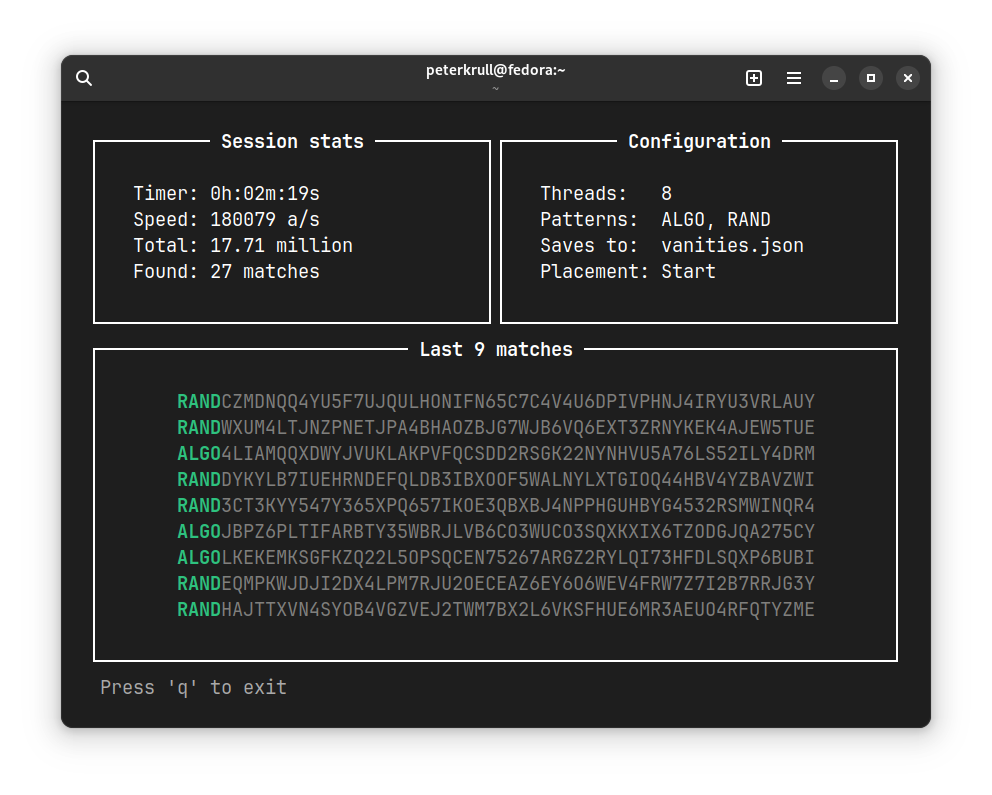
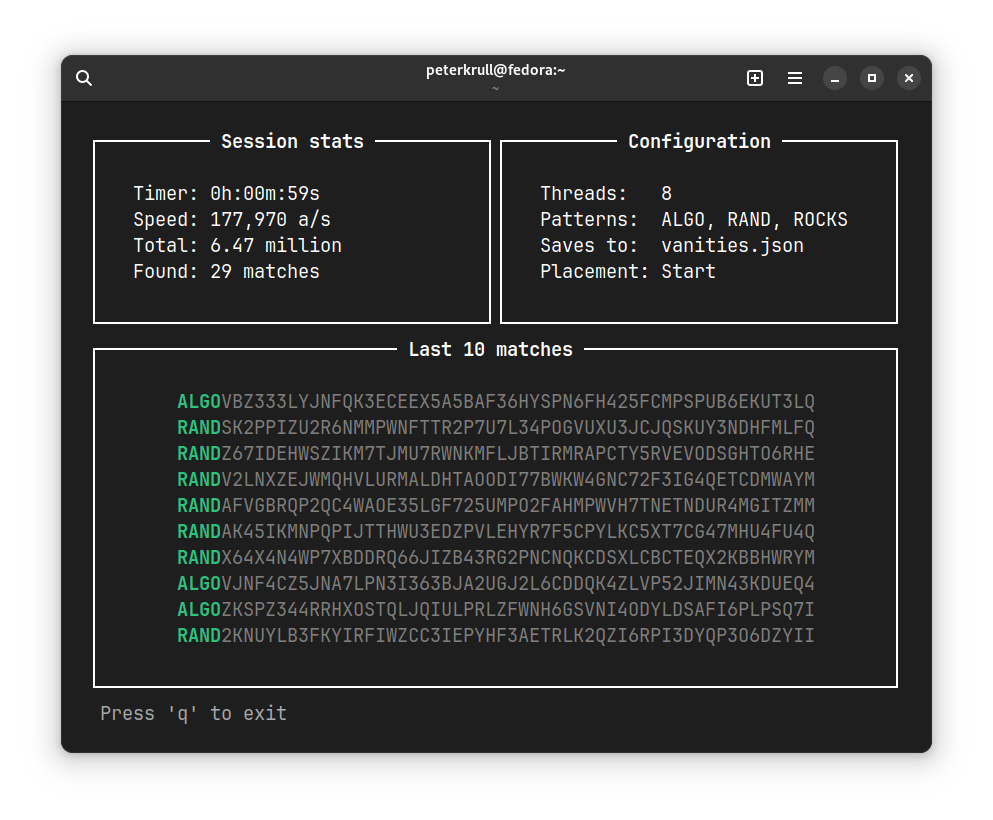
Add thousands seperator to search rate

diff --git a/src/tui.rs b/src/tui.rs
@@ -5,6 +5,7 @@ use crossterm::{
     terminal::{disable_raw_mode, enable_raw_mode, EnterAlternateScreen, LeaveAlternateScreen}
 };
 use ratatui::{prelude::*, widgets::*};
+use thousands::Separable;
 
 use crate::{GlobalState, AddressMatch};
 
@@ -68,7 +69,7 @@ fn ui_function(frame: &mut Frame, state: &Arc<Mutex<GlobalState>>) {
 
         let stats_lines = vec![
             Line::raw(format!("Timer: {}h:{:02}m:{:02}s", hrs, min, sec)),
-            Line::raw(format!("Speed: {:.0} a/s", s.search_rate)),
+            Line::raw(format!("Speed: {} a/s", (s.search_rate as usize).separate_with_commas())),
             Line::raw(count_message),
             Line::raw(format!("Found: {} matches", s.match_count)),
         ];
